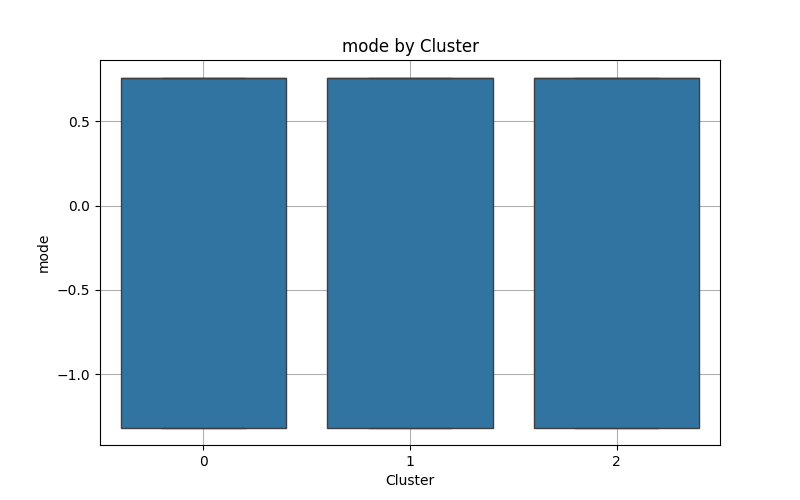
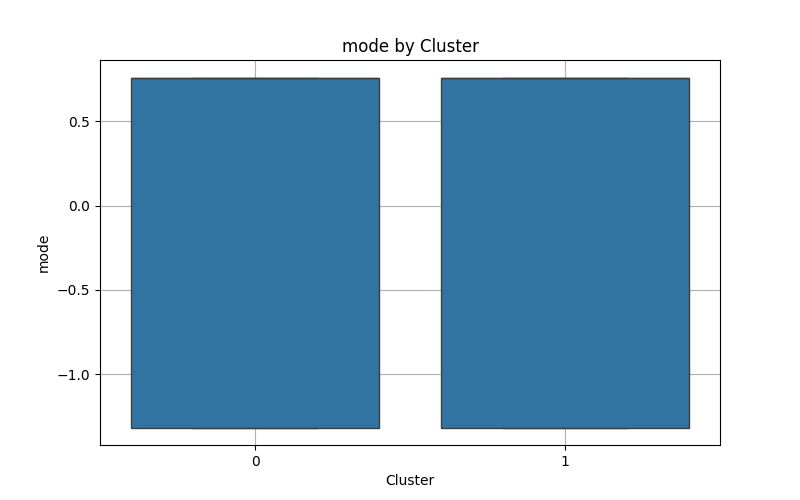
Add some methods to probabilistic clustering

diff --git a/Clustering.py b/Clustering.py
@@ -426,8 +426,6 @@ class HierarchicalClustering(UnsupervisedAlgorithms):
             size = int(Z[i, 3])
             distance = Z[i, 2]
             print(f"Merge {i+1}: Cluster {cluster_1} + Cluster {cluster_2} -> New Size = {size}, Distance = {distance:.3f}")
-
-
 class ProbabilisticClustering(UnsupervisedAlgorithms):
     def __init__(self, X, feature_names=None):
         super().__init__(X, feature_names)
@@ -448,6 +446,64 @@ class ProbabilisticClustering(UnsupervisedAlgorithms):
         df_probabilities.to_csv(output_path, index=False)
         print(f"Saved cluster probabilities to: {output_path}")
         return df_probabilities
+
+    def cluster_characteristics(self, clusters, df):
+        """Generates descriptive statistics for each cluster."""
+        df['Cluster'] = clusters
+        print("--- Cluster Characteristics ---")
+        cluster_stats = df.groupby('Cluster').describe()
+        print(cluster_stats)
+        output_path = os.path.join("results/clustering/probabilistic", "Cluster_Characteristics.csv")
+        cluster_stats.to_csv(output_path)
+        print(f"Saved cluster characteristics to: {output_path}")
+        return cluster_stats
+
+    def feature_importance_analysis(self, gmm_model):
+        """Analyzes feature importance based on the means of GMM components."""
+        print("\n--- Feature Importance ---")
+        cluster_means = pd.DataFrame(gmm_model.means_, columns=self.feature_names)
+        global_mean = np.mean(self.X, axis=0)
+        importance = (cluster_means - global_mean).abs().mean(axis=0).sort_values(ascending=False)
+        print(importance)
+
+        plt.figure(figsize=(10, 6))
+        importance.plot(kind='bar', color='skyblue')
+        plt.title("Feature Importance in Probabilistic Clustering")
+        plt.ylabel("Average Deviation from Global Mean")
+        plt.xlabel("Feature")
+        plt.grid(True)
+        output_path = os.path.join("results/clustering/probabilistic", "Feature_Importance.png")
+        plt.savefig(output_path)
+        plt.close()
+        print(f"Saved feature importance plot to: {output_path}")
+
+    def cluster_class_distribution(self, clusters, original_df):
+        """Calculates class distribution percentages for each cluster."""
+        class_percentages = {}
+        for cluster_id in np.unique(clusters):
+            cluster_data = original_df[original_df['Cluster'] == cluster_id]
+            class_counts = cluster_data['Class'].value_counts()
+            percentages = (class_counts / class_counts.sum()) * 100
+            class_percentages[cluster_id] = percentages
+        print("\n--- Class Percentages per Cluster ---")
+        for cluster_id, percentages in class_percentages.items():
+            print(f"Cluster {cluster_id}:")
+            for cls, pct in percentages.items():
+                print(f"  Class {cls}: {pct:.2f}% of instances in this cluster")
+        return class_percentages
+
+    def cluster_probabilities_visualization(self, df_probabilities):
+        """Visualizes cluster probabilities for interpretability."""
+        plt.figure(figsize=(10, 6))
+        sns.boxplot(data=df_probabilities)
+        plt.title("Distribution of Cluster Probabilities")
+        plt.xlabel("Cluster")
+        plt.ylabel("Probability")
+        output_path = os.path.join("results/clustering/probabilistic", "Cluster_Probabilities_Boxplot.png")
+        plt.savefig(output_path)
+        plt.close()
+        print(f"Saved cluster probabilities visualization to: {output_path}")
+
 
 if __name__ == '__main__':
     # Cargar datos
@@ -510,6 +566,9 @@ if __name__ == '__main__':
     # Probabilistic Clustering
     log_file = os.path.join(path3, "output_log.txt")
     with open(log_file, "w") as log, contextlib.redirect_stdout(log):
+
+        # Cluster probabilities
+
         probabilistic_clustering = ProbabilisticClustering(features, feature_names)
         gmm_model, probabilistic_clusters = probabilistic_clustering.gmm_clustering(n_components=3)
 
@@ -518,3 +577,11 @@ if __name__ == '__main__':
         probabilistic_clustering.cluster_size_distribution(probabilistic_clusters)
         probabilistic_clustering.cluster_characteristics(probabilistic_clusters, df)
         probabilistic_clustering.cluster_probabilities(gmm_model)
+
+        df_probabilities = probabilistic_clustering.cluster_probabilities(gmm_model)
+
+        # Explicability
+        probabilistic_clustering.feature_importance_analysis(gmm_model)
+        probabilistic_clustering.cluster_probabilities_visualization(df_probabilities)
+        probabilistic_clustering.cluster_characteristics(probabilistic_clusters, df)
+        probabilistic_clustering.cluster_class_distribution(probabilistic_clusters, df)
